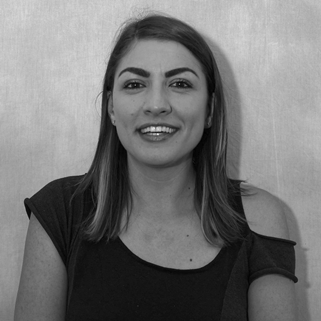
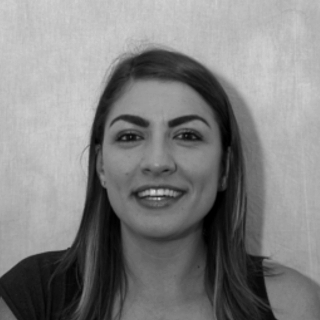
update team photos, cropping to fit uniform structure

diff --git a/template-parts/shared/team-all.php b/template-parts/shared/team-all.php
@@ -4,7 +4,7 @@
         
         <div class="row">
           
-          <section id="giles-morrison" class="card-team-member card-full col-md-3 col-sm-4">       
+          <section id="giles-morrison" class="card-team-member card-full col-md-3 col-sm-3">       
             <div class="row">
               <div class="col-md-12 col-sm-12 col-xs-6">
                 <img class="img-responsive" width="100%" src="<?php echo get_template_directory_uri() . '/images/team/giles-morrison.jpg' ;?>" alt="Picture of Mr Giles Morrison, Head of Radiation Protection Services at Sheffield Radiation Protection Assurance">
@@ -21,7 +21,7 @@
           </section>
           
           
-          <section id="mark-singleton" class="card-team-member card-full col-md-3 col-sm-4">       
+          <section id="mark-singleton" class="card-team-member card-full col-md-3 col-sm-3">       
             <div class="row">
               <div class="col-md-12 col-sm-12 col-xs-6">
                 <img class="img-responsive" width="100%" src="<?php echo get_template_directory_uri() . '/images/team/mark-singleton.jpg' ;?>" alt="Picture of Mr Mark Singleton, Deputy Head of Radiation Protection Services at Sheffield Radiation Protection Assurance">
@@ -37,7 +37,7 @@
             </div>
           </section>
           
-          <section id="prashant-verma" class="card-team-member card-full col-md-3 col-sm-4">       
+          <section id="prashant-verma" class="card-team-member card-full col-md-3 col-sm-3">       
             <div class="row">
               <div class="col-md-12 col-sm-12 col-xs-6">
                 <img class="img-responsive" width="100%" src="<?php echo get_template_directory_uri() . '/images/team/prashant-verma.jpg' ;?>" alt="Picture of Dr Prashant Verma, Registered Clinical Scientist at Sheffield Radiation Protection Assurance">
@@ -46,11 +46,12 @@
               <div class="col-md-12 col-sm-12 col-xs-12">
                 <h4>Dr Prashant Verma</h4>
                 <p>Registered Clinical Scientist: Lead for Non-ionising Radiation including Ultrasound, Lasers &amp; Ultraviolet light sources </p>
+                <p></p>
               </div>
             </div>
           </section>
           
-          <section id="peter-wright" class="card-team-member card-full col-md-3 col-sm-4">       
+          <section id="peter-wright" class="card-team-member card-full col-md-3 col-sm-3">       
             <div class="row">
               <div class="col-md-12 col-sm-12 col-xs-6">
                 <img class="img-responsive" width="100%" src="<?php echo get_template_directory_uri() . '/images/team/peter-wright.jpg' ;?>" alt="Picture of Dr Peter Wright, Registered Clinical Scientist at Sheffield Radiation Protection Assurance">
@@ -59,11 +60,15 @@
               <div class="col-md-12 col-sm-12 col-xs-12">
                 <h4>Dr Paul Wright</h4>
                 <p>Registered Clinical Scientist: Lead for Magnetic Resonance Imaging &amp; MR Safety Expert</p>
+                <p></p>
               </div>
             </div>
           </section>
           
-          <section id="tracy-soanes" class="card-team-member card-full col-md-3 col-sm-4">       
+        </div>
+        <div class="row">
+          
+          <section id="tracy-soanes" class="card-team-member card-full col-md-3 col-sm-3">       
             <div class="row">
               <div class="col-md-12 col-sm-12 col-xs-6">
                 <img class="img-responsive" width="100%" src="<?php echo get_template_directory_uri() . '/images/team/tracy-soanes.jpg' ;?>" alt="Picture of Miss Tracy Soanes, Registered Clinical Scientist at Sheffield Radiation Protection Assurance">
@@ -72,11 +77,12 @@
               <div class="col-md-12 col-sm-12 col-xs-12">
                 <h4>Miss Tracy Soanes</h4>
                 <p>Registered Clinical Scientist: Accredited Radiation Protection Adviser (Radioactive Substances, Radiotherapy &amp; Radiosurgery) and Accredited Radioactive Waste Adviser</p>
+                <p></p>
               </div>
             </div>
           </section>
           
-          <section id="matt-hill" class="card-team-member card-full col-md-3 col-sm-4">       
+          <section id="matt-hill" class="card-team-member card-full col-md-3 col-sm-3">       
             <div class="row">
               <div class="col-md-12 col-sm-12 col-xs-6">
                 <img class="img-responsive" width="100%" src="<?php echo get_template_directory_uri() . '/images/team/matt-hill.jpg' ;?>" alt="Picture of Mr Matt Hill, Registered Clinical Scientist at Sheffield Radiation Protection Assurance">
@@ -90,7 +96,7 @@
           </section>
           
           
-          <section id="paul-harris" class="card-team-member card-full col-md-3 col-sm-4">       
+          <section id="paul-harris" class="card-team-member card-full col-md-3 col-sm-3">       
             <div class="row">
               <div class="col-md-12 col-sm-12 col-xs-6">
                 <img class="img-responsive" width="100%" src="<?php echo get_template_directory_uri() . '/images/team/paul-harris.jpg' ;?>" alt="Picture of Dr Paul Harris, Registered Clinical Scientist at Sheffield Radiation Protection Assurance">
@@ -105,7 +111,7 @@
           
           
           
-          <section id="chris-ogley" class="card-team-member card-full col-md-3 col-sm-4">       
+          <section id="chris-ogley" class="card-team-member card-full col-md-3 col-sm-3">       
             <div class="row">
               <div class="col-md-12 col-sm-12 col-xs-6">
                 <img class="img-responsive" width="100%" src="<?php echo get_template_directory_uri() . '/images/team/chris-ogley.jpg' ;?>" alt="Picture of Mr Chris Ogley, Registered Clinical Scientist at Sheffield Radiation Protection Assurance">
@@ -120,7 +126,12 @@
             </div>
           </section>
           
-          <section id="mike-tyas" class="card-team-member card-full col-md-3 col-sm-4">       
+          </div>
+        <div class="row">
+          
+        
+          
+          <section id="mike-tyas" class="card-team-member card-full col-md-3 col-sm-3">       
             <div class="row">
               <div class="col-md-12 col-sm-12 col-xs-6">
                 <img class="img-responsive" width="100%" src="<?php echo get_template_directory_uri() . '/images/team/mike-tyas.jpg' ;?>" alt="Picture of Mr Mike Tyas, Registered Clinical Scientist at Sheffield Radiation Protection Assurance">
@@ -133,7 +144,7 @@
             </div>
           </section>
           
-          <section id="emily-perry" class="card-team-member card-full col-md-3 col-sm-4">       
+          <section id="emily-perry" class="card-team-member card-full col-md-3 col-sm-3">       
             <div class="row">
               <div class="col-md-12 col-sm-12 col-xs-6">
                 <img class="img-responsive" width="100%" src="<?php echo get_template_directory_uri() . '/images/team/emily-perry.jpg' ;?>" alt="Picture of Miss Emily Perry, Registered Clinical Scientist at Sheffield Radiation Protection Assurance">
@@ -146,7 +157,7 @@
             </div>
           </section>
           
-          <section id="andy-fry" class="card-team-member card-full col-md-3 col-sm-4">       
+          <section id="andy-fry" class="card-team-member card-full col-md-3 col-sm-3">       
             <div class="row">
               <div class="col-md-12 col-sm-12 col-xs-6">
                 <img class="img-responsive" width="100%" src="<?php echo get_template_directory_uri() . '/images/team/andy-fry.jpg' ;?>" alt="Picture of Mr Andy Fry, Trainee Clinical Scientist at Sheffield Radiation Protection Assurance">
@@ -159,7 +170,7 @@
             </div>
           </section>
           
-          <section id="wendy-fish" class="card-team-member card-full col-md-3 col-sm-4">       
+          <section id="wendy-fish" class="card-team-member card-full col-md-3 col-sm-3">       
             <div class="row">
               <div class="col-md-12 col-sm-12 col-xs-6">
                 <img class="img-responsive" width="100%" src="<?php echo get_template_directory_uri() . '/images/team/wendy-fish.jpg' ;?>"  alt="Picture of Miss Wendy Fish, Trainee Clinical Scientist at Sheffield Radiation Protection Assurance">
@@ -171,9 +182,9 @@
               </div>
             </div>
           </section>
+
+          </div>
           
-          
-        </div>
       </div>
     </div>
     
